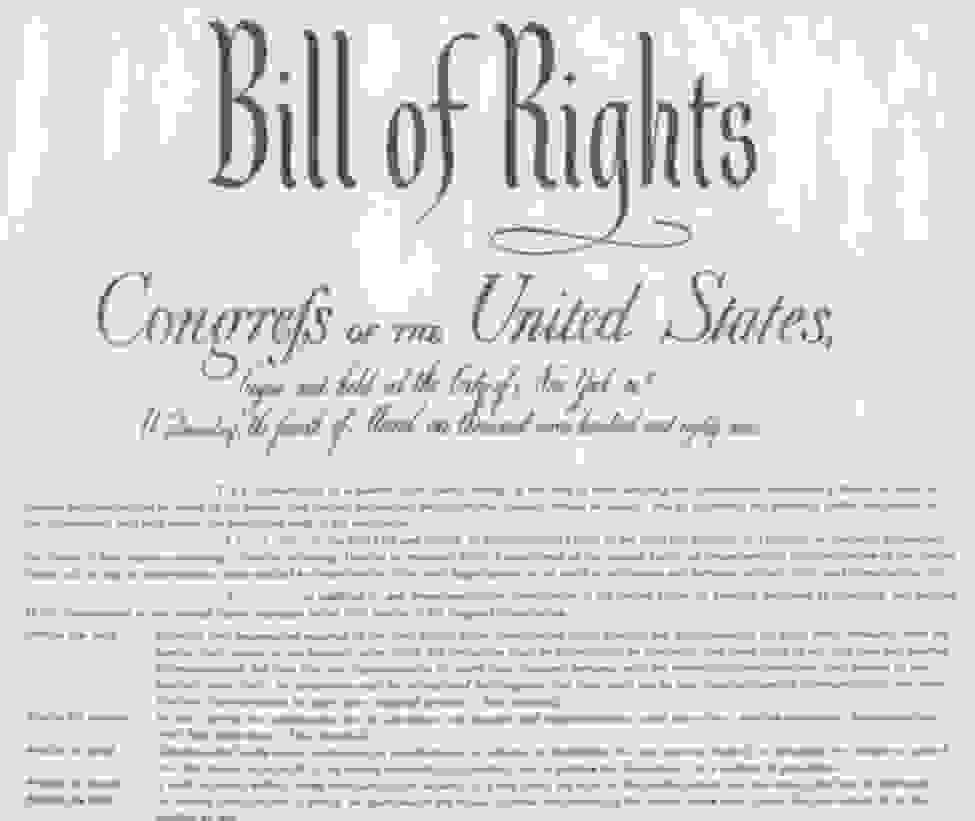
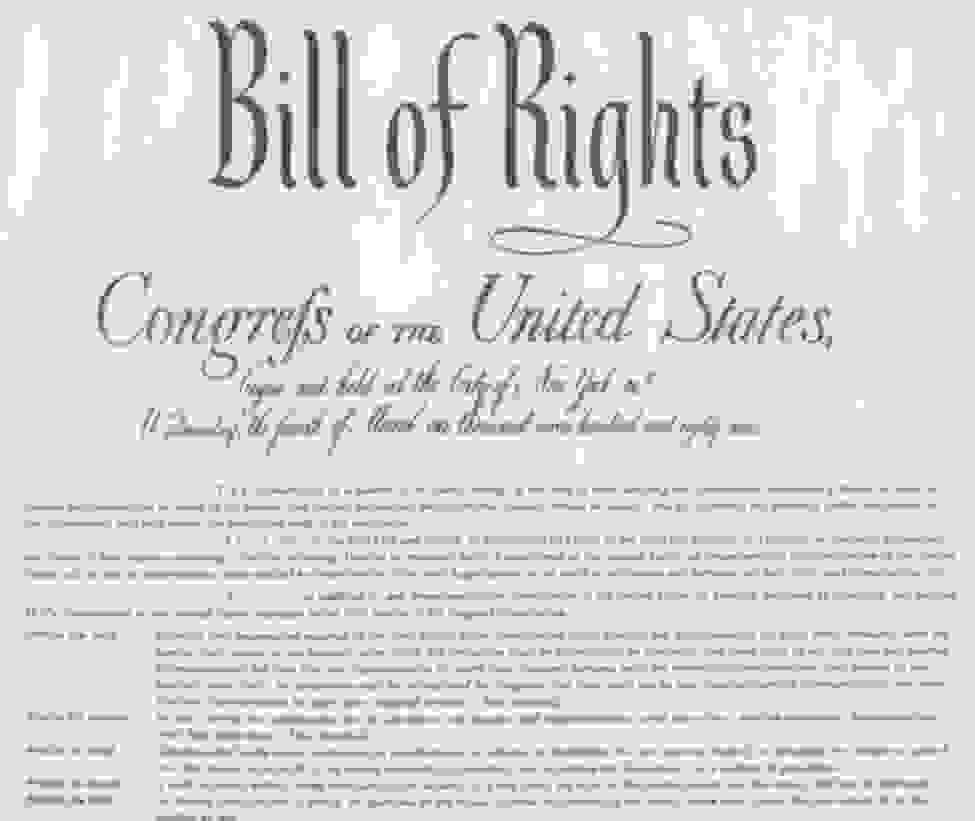
Create grayscale output shortcode

diff --git a/themes/digital.gov/layouts/shortcodes/img-bw.html b/themes/digital.gov/layouts/shortcodes/img-bw.html
@@ -1,0 +1,116 @@
+<!-- image -->
+{{ $cdnurl := .Site.Params.cdnurl }}
+{{ $imgBase := replaceRE "\\.(png|jpg)$" "" (.Get "src") }}
+{{ $imgExt := replaceRE "^.+\\.(png|jpg)$" "$1" (.Get "src") }}
+{{ $imgBaseCDN := printf "%s/%s" $cdnurl $imgBase }}
+{{ $imgLocalProxy := printf "%s/%s" "static/img/proxy" (.Get "src") }}
+{{ $imgProxy := printf "%s/%s" "img/proxy" (.Get "src") }}
+{{ $imgProxy := absURL $imgProxy }}
+{{ $imgWidth := (imageConfig $imgLocalProxy).Width }}
+{{ $imgHeight := (imageConfig $imgLocalProxy).Height }}
+
+
+<ul>
+  <li>imgBase: {{ $imgBase }}</li>
+  <li>imgExt: {{ $imgExt }}</li>
+  <li>imgProxy: {{ $imgProxy }}</li>
+  <li>imgLocalProxy: {{ $imgLocalProxy }}</li>
+  <li>Image dimensions: {{ $imgWidth }}px &times; {{ $imgHeight }}px</li>
+</ul>
+<h4>proxy:</h4>
+<img src="{{ $imgProxy }}" />
+
+<h4>&lt;picture&gt; tag webp</h4>
+<picture>
+  <source
+    srcset="
+      {{ $imgBaseCDN }}__gray.webp {{ $imgWidth }}w{{ if gt $imgWidth 200 }},
+        {{ if gt $imgWidth 400 }}
+          {{ if gt $imgWidth 600 }}
+            {{ if gt $imgWidth 800 }}
+              {{ if gt $imgWidth 1200 }}
+                {{ if gt $imgWidth 1600 }}
+                  {{ if gt $imgWidth 2400 }}
+                    {{ $imgBaseCDN }}__gray_w2400.webp 2400w,
+                  {{ end }}
+                  {{ $imgBaseCDN }}__gray_w1600.webp 1600w,
+                {{ end }}
+                {{ $imgBaseCDN }}__gray_w1200.webp 1200w,
+              {{ end }}
+              {{ $imgBaseCDN }}__gray_w800.webp 800w,
+            {{ end }}
+            {{ $imgBaseCDN }}__gray_w600.webp 600w,
+          {{ end }}
+          {{ $imgBaseCDN }}__gray_w400.webp 400w,
+        {{ end }}
+        {{ $imgBaseCDN }}__gray_w200.webp 200w
+      {{ end }}
+      "
+    type="image/webp"
+    sizes="600px"
+    >
+  <source
+    srcset="
+    {{ $imgBaseCDN }}__gray.{{ $imgExt }} {{ $imgWidth }}w{{ if gt $imgWidth 200 }},
+      {{ if gt $imgWidth 400 }}
+        {{ if gt $imgWidth 600 }}
+          {{ if gt $imgWidth 800 }}
+            {{ if gt $imgWidth 1200 }}
+              {{ if gt $imgWidth 1600 }}
+                {{ if gt $imgWidth 2400 }}
+                  {{ $imgBaseCDN }}__gray_w2400.{{ $imgExt }} 2400w,
+                {{ end }}
+                {{ $imgBaseCDN }}__gray_w1600.{{ $imgExt }} 1600w,
+              {{ end }}
+              {{ $imgBaseCDN }}__gray_w1200.{{ $imgExt }} 1200w,
+            {{ end }}
+            {{ $imgBaseCDN }}__gray_w800.{{ $imgExt }} 800w,
+          {{ end }}
+          {{ $imgBaseCDN }}__gray_w600.{{ $imgExt }} 600w,
+        {{ end }}
+        {{ $imgBaseCDN }}__gray_w400.{{ $imgExt }} 400w,
+      {{ end }}
+      {{ $imgBaseCDN }}__gray_w200.{{ $imgExt }} 200w
+    {{ end }}
+      "
+    type="image/jpeg"
+    sizes="600px"
+    >
+  <img
+    src="{{ $imgBaseCDN }}__bu.{{ $imgExt }}"
+    alt="Alt Text!"
+    >
+</picture>
+
+<h4>cdn:</h4>
+<img src="{{ $imgBaseCDN }}.{{ $imgExt }}" />
+<img src="{{ $imgBaseCDN }}.webp" />
+<img src="{{ $imgBaseCDN }}__bu.jpg" />
+<img src="{{ $imgBaseCDN }}__w200.{{ $imgExt }}" />
+<img src="{{ $imgBaseCDN }}__gray__w200.{{ $imgExt }}" />
+<img src="{{ $imgBaseCDN }}__w400.{{ $imgExt }}" />
+<img src="{{ $imgBaseCDN }}__gray__w400.{{ $imgExt }}" />
+<img src="{{ $imgBaseCDN }}__w600.{{ $imgExt }}" />
+<img src="{{ $imgBaseCDN }}__gray__w600.{{ $imgExt }}" />
+<img src="{{ $imgBaseCDN }}__w800.{{ $imgExt }}" />
+<img src="{{ $imgBaseCDN }}__gray__w800.{{ $imgExt }}" />
+
+{{/*
+<div {{ if or (.Get "align") (.Get "caption")}}class="{{ with .Get "caption" }}wp-caption{{ end }} {{ with .Get "align" }}align{{.}}{{ end }}"{{ end }}>
+  {{ if isset .Params "title" }}
+    <h6 class='figure-title'>{{ .Get "title" }}</h6>
+  {{ end }}
+  {{ with .Get "link"}}<a href="{{ . | absURL }}">{{ end }}
+  <img src="{{ if (findRE "^http" (.Get "src")) }}{{ else }}{{ $cdnurl }}{{ .Get "src" }}{{ end }}" {{ if or (.Get "alt") (.Get "caption") }}alt="{{ with .Get "alt"}}{{.}}{{else}}{{ .Get "caption" }}{{ end }}"{{ end }} />
+  {{ if .Get "link"}}</a>{{ end }}
+  {{ with .Get "attr"}}
+    <div class="figure-credit">{{ .Get "attr" }}</div>
+  {{ end }}
+  {{ with .Get "caption" }}
+    <p class="wp-caption-text">
+      {{ . | markdownify }}
+    </p>
+  {{ end }}
+</div>
+*/}}
+<!-- image -->

diff --git a/gulpfile.js b/gulpfile.js
@@ -91,6 +91,13 @@ gulp.task("img-variants", function (done) {
           suffix: '__gray__w200',
         },
       }, {
+        width: 200,
+        grayscale: true,
+        rename: {
+          suffix: '__gray__w200',
+          extname: '.webp',
+        },
+      }, {
         width: 400,
         rename: {
           suffix: '__w400',
@@ -106,6 +113,13 @@ gulp.task("img-variants", function (done) {
         grayscale: true,
         rename: {
           suffix: '__gray__w400',
+        },
+      }, {
+        width: 400,
+        grayscale: true,
+        rename: {
+          suffix: '__gray__w400',
+          extname: '.webp',
         },
       }, {
         width: 600,
@@ -125,6 +139,13 @@ gulp.task("img-variants", function (done) {
           suffix: '__gray__w600',
         },
       }, {
+        width: 600,
+        grayscale: true,
+        rename: {
+          suffix: '__gray__w600',
+          extname: '.webp',
+        },
+      }, {
         width: 800,
         rename: {
           suffix: '__w800',
@@ -140,6 +161,13 @@ gulp.task("img-variants", function (done) {
         grayscale: true,
         rename: {
           suffix: '__gray__w800',
+        },
+      }, {
+        width: 800,
+        grayscale: true,
+        rename: {
+          suffix: '__gray__w800',
+          extname: '.webp',
         },
       }, {
         width: 1200,
@@ -159,6 +187,13 @@ gulp.task("img-variants", function (done) {
           suffix: '__gray__w1200',
         },
       }, {
+        width: 1200,
+        grayscale: true,
+        rename: {
+          suffix: '__gray__w1200',
+          extname: '.webp',
+        },
+      }, {
         width: 1600,
         rename: {
           suffix: '__w1600',
@@ -174,6 +209,13 @@ gulp.task("img-variants", function (done) {
         grayscale: true,
         rename: {
           suffix: '__gray__w1600',
+        },
+      }, {
+        width: 1600,
+        grayscale: true,
+        rename: {
+          suffix: '__gray__w1600',
+          extname: '.webp',
         },
       }, {
         width: 2400,
@@ -193,11 +235,25 @@ gulp.task("img-variants", function (done) {
           suffix: '__gray__w2400',
         },
       }, {
+        width: 2400,
+        grayscale: true,
+        rename: {
+          suffix: '__gray__w2400',
+          extname: '.webp',
+        },
+      }, {
         // original -> grayscale
         grayscale: true,
         rename: {
           suffix: '__gray',
         },
+      }, {
+        // original -> grayscale webp
+        grayscale: true,
+        rename: {
+          suffix: '__gray',
+          extname: '.webp',
+      },
       }, {
         // original -> webp
         rename: {

diff --git a/content/posts/2018-01-01-world-of-foo.md b/content/posts/2018-01-01-world-of-foo.md
@@ -13,4 +13,4 @@ tag:
 
 Foo.
 
-{{< img src="bill-of-rights.jpg" >}}
+{{< img-bw src="bill-of-rights.jpg" >}}
